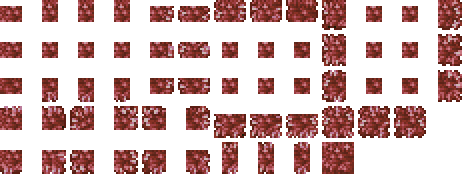
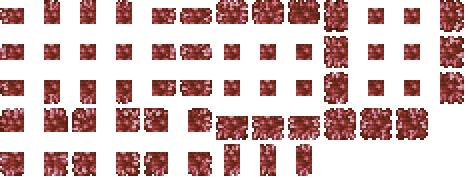
b

diff --git a/EEWorld/CoralReefs.cs b/EEWorld/CoralReefs.cs
@@ -292,7 +292,7 @@ namespace EEMod.EEWorld
                                         switch (TileCheck2(i, j))
                                         {
                                             case 1:
-                                                selection = WorldGen.genRand.Next(5);
+                                                selection = WorldGen.genRand.Next(6);
                                                 switch (selection)
                                                 {
                                                     case 0:
@@ -304,15 +304,20 @@ namespace EEMod.EEWorld
                                                         break;
 
                                                     case 2:
-                                                        WorldGen.PlaceTile(i, j + 1, ModContent.TileType<Hanging2x3Coral>());
+                                                        WorldGen.PlaceTile(i, j + 1, ModContent.TileType<Hanging2x3Coral>(), style: WorldGen.genRand.Next(2));
                                                         break;
 
                                                     case 3:
                                                         WorldGen.PlaceTile(i, j + 1, ModContent.TileType<Hanging2x4Coral>(), style: WorldGen.genRand.Next(3));
                                                         break;
+
                                                     case 4:
                                                         ModContent.GetInstance<GlowHangCoral2TE>().Place(i, j + 1);
                                                         WorldGen.PlaceTile(i, j + 1, ModContent.TileType<GlowHangCoral2>());
+                                                        break;
+
+                                                    case 5:
+                                                        WorldGen.PlaceTile(i, j + 1, ModContent.TileType<Hanging1x4Coral>());
                                                         break;
                                                 }
                                                 break;
@@ -619,7 +624,7 @@ namespace EEMod.EEWorld
                                         switch (TileCheck2(i, j))
                                         {
                                             case 1:
-                                                selection = WorldGen.genRand.Next(4);
+                                                selection = WorldGen.genRand.Next(5);
                                                 switch (selection)
                                                 {
                                                     case 0:
@@ -631,11 +636,15 @@ namespace EEMod.EEWorld
                                                         break;
 
                                                     case 2:
-                                                        WorldGen.PlaceTile(i, j + 1, ModContent.TileType<Hanging2x3Coral>());
+                                                        WorldGen.PlaceTile(i, j + 1, ModContent.TileType<Hanging2x3Coral>(), style: WorldGen.genRand.Next(2));
                                                         break;
 
                                                     case 3:
                                                         WorldGen.PlaceTile(i, j + 1, ModContent.TileType<Hanging2x4Coral>(), style: WorldGen.genRand.Next(2));
+                                                        break;
+
+                                                    case 4:
+                                                        WorldGen.PlaceTile(i, j + 1, ModContent.TileType<Hanging1x4Coral>());
                                                         break;
                                                 }
                                                 break;
@@ -693,7 +702,7 @@ namespace EEMod.EEWorld
                                                 }
                                                 break;
                                             case 2:
-                                                selection = WorldGen.genRand.Next(7);
+                                                selection = WorldGen.genRand.Next(9);
                                                 switch (selection)
                                                 {
                                                     case 0:
@@ -751,23 +760,27 @@ namespace EEMod.EEWorld
                                             switch (TileCheck2(i, j))
                                             {
                                                 case 1:
-                                                    selection = WorldGen.genRand.Next(4);
+                                                    selection = WorldGen.genRand.Next(5);
                                                     switch (selection)
                                                     {
                                                         case 0:
                                                             WorldGen.PlaceTile(i, j + 1, ModContent.TileType<Hanging1x2Coral>());
                                                             break;
-
+                                                            
                                                         case 1:
                                                             WorldGen.PlaceTile(i, j + 1, ModContent.TileType<Hanging1x3Coral>(), style: WorldGen.genRand.Next(2));
                                                             break;
 
                                                         case 2:
-                                                            WorldGen.PlaceTile(i, j + 1, ModContent.TileType<Hanging2x3Coral>());
+                                                            WorldGen.PlaceTile(i, j + 1, ModContent.TileType<Hanging2x3Coral>(), style: WorldGen.genRand.Next(2));
                                                             break;
 
                                                         case 3:
                                                             WorldGen.PlaceTile(i, j + 1, ModContent.TileType<Hanging2x4Coral>(), style: WorldGen.genRand.Next(3));
+                                                            break;
+
+                                                        case 4:
+                                                            WorldGen.PlaceTile(i, j + 1, ModContent.TileType<Hanging1x4Coral>());
                                                             break;
                                                     }
                                                     break;
@@ -812,7 +825,7 @@ namespace EEMod.EEWorld
                                         switch (TileCheck2(i, j))
                                         {
                                             case 1:
-                                                selection = WorldGen.genRand.Next(3);
+                                                selection = WorldGen.genRand.Next(4);
                                                 switch (selection)
                                                 {
                                                     case 0:
@@ -825,6 +838,10 @@ namespace EEMod.EEWorld
 
                                                     case 2:
                                                         WorldGen.PlaceTile(i, j + 1, ModContent.TileType<Hanging2x4Coral>(), style: WorldGen.genRand.Next(3));
+                                                        break;
+
+                                                    case 3:
+                                                        WorldGen.PlaceTile(i, j + 1, ModContent.TileType<Hanging1x4Coral>());
                                                         break;
                                                 }
                                                 break;

diff --git a/Tiles/Furniture/Coral/HangingCoral/Hanging1x4Coral.cs b/Tiles/Furniture/Coral/HangingCoral/Hanging1x4Coral.cs
@@ -1,36 +1,27 @@
 using Microsoft.Xna.Framework;
-using Terraria;
 using Terraria.DataStructures;
-using Terraria.Enums;
 using Terraria.ID;
 using Terraria.ModLoader;
 using Terraria.ObjectData;
 
 namespace EEMod.Tiles.Furniture.Coral.HangingCoral
 {
-    public class Hanging2x3Coral : ModTile
+    public class Hanging1x4Coral : ModTile
     {
         public override void SetDefaults()
         {
-            Main.tileFrameImportant[Type] = true;
-            Main.tileNoAttach[Type] = true;
-            Main.tileLavaDeath[Type] = true;
-            TileObjectData.newTile.CopyFrom(TileObjectData.Style2xX);
-            TileObjectData.newTile.Origin = new Point16(0, 0);
-            TileObjectData.newTile.AnchorTop = new AnchorData(AnchorType.SolidTile | AnchorType.SolidSide, 1, 1);
-            TileObjectData.newTile.AnchorBottom = AnchorData.Empty;
-            TileObjectData.newTile.Height = 3;
-            TileObjectData.newTile.Width = 2;
+            TileObjectData.newTile.CopyFrom(TileObjectData.Style1x2Top);
+            TileObjectData.newTile.Height = 4;
             TileObjectData.newTile.UsesCustomCanPlace = true;
             TileObjectData.newTile.LavaDeath = true;
-            TileObjectData.newTile.RandomStyleRange = 3;
             TileObjectData.newTile.CoordinateHeights = new int[]
             {
                 16,
                 16,
+                16,
                 16
             };
-
+            TileObjectData.newTile.Origin = new Point16(0, 0);
             TileObjectData.addTile(Type);
             ModTranslation name = CreateMapEntryName();
             name.SetDefault("Coral Lamp");

diff --git a/Tiles/Furniture/Coral/HangingCoral/HangingGlow3x2Coral.cs b/Tiles/Furniture/Coral/HangingCoral/HangingGlow3x2Coral.cs
@@ -51,9 +51,9 @@ namespace EEMod.Tiles.Furniture.Coral.HangingCoral
             int frameX = Main.tile[i, j].frameX;
             int frameY = Main.tile[i, j].frameY;
             const int width = 20;
-            const int offsetY = 2;
+            const int offsetY = 0;
             const int height = 20;
-            const int offsetX = 2;
+            const int offsetX = 0;
             Vector2 zero = new Vector2(Main.offScreenRange, Main.offScreenRange);
             if (Main.drawToScreen)
             {
@@ -63,7 +63,7 @@ namespace EEMod.Tiles.Furniture.Coral.HangingCoral
             Rectangle rect = new Rectangle(frameX, frameY, width, height);
             for (int k = 0; k < 7; k++)
             {
-                Main.spriteBatch.Draw(EEMod.instance.GetTexture("Tiles/Furniture/Coral/HangingCoral/HangingGlow2x4CoralGlow"), position, rect, color, 0f, default, 1f, SpriteEffects.None, 0f);
+                Main.spriteBatch.Draw(EEMod.instance.GetTexture("Tiles/Furniture/Coral/HangingCoral/HangingGlow3x2CoralGlow"), position, rect, color, 0f, default, 1f, SpriteEffects.None, 0f);
             }
         }
     }

diff --git a/Tiles/BlueKelpTile.cs b/Tiles/BlueKelpTile.cs
@@ -73,7 +73,10 @@ namespace EEMod.Tiles
                 if (!tile.active()
                     || tile.type != ModContent.TileType<GemsandTile>()
                     && tile.type != ModContent.TileType<LightGemsandTile>()
-                    && tile.type != ModContent.TileType<DarkGemsandTile>())
+                    && tile.type != ModContent.TileType<DarkGemsandTile>()
+                    && tile.type != ModContent.TileType<LightGemsandstoneTile>()
+                    && tile.type != ModContent.TileType<GemsandstoneTile>()
+                    && tile.type != ModContent.TileType<DarkGemsandstoneTile>())
                 {
                     WorldGen.KillTile(i, j);
                 }

diff --git a/Tiles/GreenKelpTile.cs b/Tiles/GreenKelpTile.cs
@@ -73,7 +73,10 @@ namespace EEMod.Tiles
                 if (!tile.active()
                     || tile.type != ModContent.TileType<GemsandTile>()
                     && tile.type != ModContent.TileType<LightGemsandTile>()
-                    && tile.type != ModContent.TileType<DarkGemsandTile>())
+                    && tile.type != ModContent.TileType<DarkGemsandTile>()
+                    && tile.type != ModContent.TileType<LightGemsandstoneTile>()
+                    && tile.type != ModContent.TileType<GemsandstoneTile>()
+                    && tile.type != ModContent.TileType<DarkGemsandstoneTile>())
                 {
                     WorldGen.KillTile(i, j);
                 }

diff --git a/Tiles/Furniture/Coral/HangingCoral/HangingGlow2x4Coral.cs b/Tiles/Furniture/Coral/HangingCoral/HangingGlow2x4Coral.cs
@@ -52,9 +52,9 @@ namespace EEMod.Tiles.Furniture.Coral.HangingCoral
             int frameX = Main.tile[i, j].frameX;
             int frameY = Main.tile[i, j].frameY;
             const int width = 20;
-            const int offsetY = 2;
+            const int offsetY = 0;
             const int height = 20;
-            const int offsetX = 2;
+            const int offsetX = 0;
             Vector2 zero = new Vector2(Main.offScreenRange, Main.offScreenRange);
             if (Main.drawToScreen)
             {
